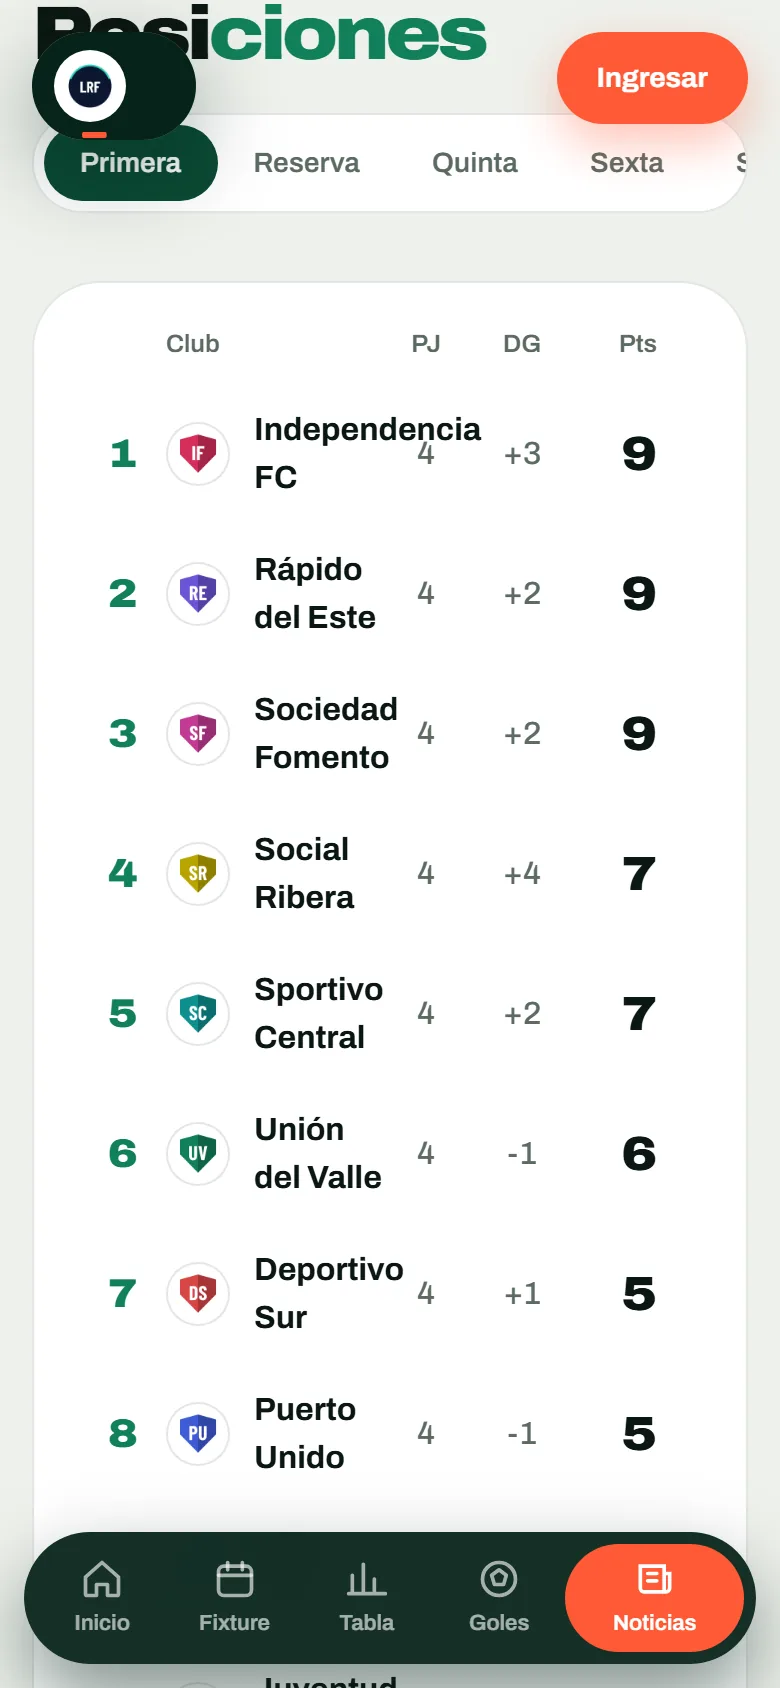
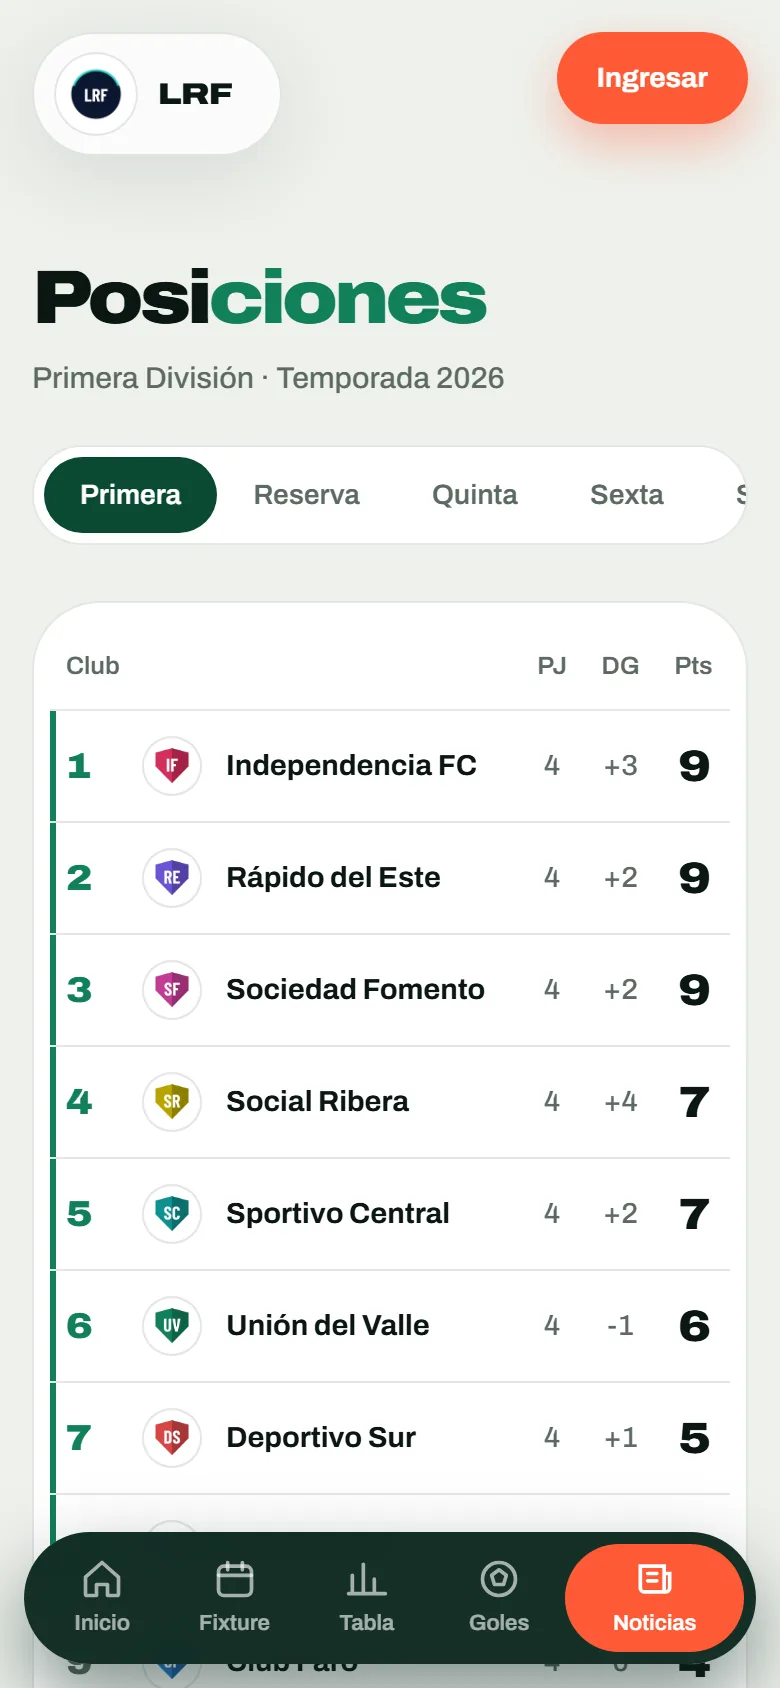
Corrijo error visual dentro del mobile en vista del usuario y agrego bien las pantallas del aministrador y periodista

diff --git a/landing/index.html b/landing/index.html
@@ -186,14 +186,14 @@
       </div>
       <div class="perfiles-der" aria-hidden="true">
         <div class="escena on" data-escena="hincha">
-          <div class="celu celu-a"><div class="pantalla-celu"><img src="assets/img/cancha-m-tabla.webp" alt="" loading="lazy" width="780" height="1688"></div></div>
-          <div class="celu celu-b"><div class="pantalla-celu"><img src="assets/img/reflectores-m-fecha.webp" alt="" loading="lazy" width="780" height="1688"></div></div>
+          <div class="celu celu-a"><div class="pantalla-celu"><img src="assets/img/cancha-m-tabla.webp?v=2" alt="" loading="lazy" width="780" height="1688"></div></div>
+          <div class="celu celu-b"><div class="pantalla-celu"><img src="assets/img/nocturno-m-fixture.webp?v=2" alt="" loading="lazy" width="780" height="1688"></div></div>
         </div>
         <div class="escena" data-escena="periodista">
-          <div class="navegador"><div class="navegador-barra"><i></i><i></i><i></i><span>tuliga.eltablon/panel_periodista</span></div><img src="assets/img/periodista-noticia.webp" alt="" loading="lazy" width="1440" height="900"></div>
+          <div class="navegador"><div class="navegador-barra"><i></i><i></i><i></i><span>tuliga.eltablon/panel_periodista</span></div><img src="assets/img/periodista-noticia.webp?v=2" alt="" loading="lazy" width="1440" height="900"></div>
         </div>
         <div class="escena" data-escena="admin">
-          <div class="navegador"><div class="navegador-barra"><i></i><i></i><i></i><span>tuliga.eltablon/adminview</span></div><img src="assets/img/admin-panel.webp" alt="" loading="lazy" width="1440" height="900"></div>
+          <div class="navegador"><div class="navegador-barra"><i></i><i></i><i></i><span>tuliga.eltablon/adminview</span></div><img src="assets/img/admin-panel.webp?v=2" alt="" loading="lazy" width="1440" height="900"></div>
         </div>
       </div>
     </div>

diff --git a/landing/css/landing.css b/landing/css/landing.css
@@ -168,8 +168,8 @@ ul,ol{list-style:none}
 .escena .navegador img{width:100%;aspect-ratio:16/10;object-fit:cover;object-position:top}
 .escena{position:absolute;inset:0;opacity:0;transform:translateY(24px);transition:opacity .5s var(--ease),transform .6s var(--ease);pointer-events:none;display:grid;align-items:center}
 .escena.on{opacity:1;transform:none}
-.escena .celu{position:absolute;bottom:auto;right:auto;width:min(31%,178px)}
-.celu-a{left:14%;top:0}.celu-b{right:14%;top:12%}
+.escena .celu{position:absolute;bottom:auto;right:auto;width:min(34%,196px)}
+.celu-a{left:10%;top:0}.celu-b{right:10%;top:10%}
 @media(max-width:900px){
   .perfiles-grid{grid-template-columns:minmax(0,1fr)}
   .perfiles-der{height:auto}

diff --git a/landing/herramientas/capturar_celulares.py b/landing/herramientas/capturar_celulares.py
@@ -1,0 +1,69 @@
+"""Capturas de celular (390x844, x2) de páginas internas de la demo, para "Tres maneras de usar tu liga".
+
+Uso, desde la raíz del proyecto:
+
+    venv\Scripts\python.exe landing\herramientas\capturar_celulares.py
+
+Crea en landing/assets/img/ <diseno>-m-<pagina>.webp. Misma mecánica que capturar_diseno.py
+(SQLite temporal, demo en un puerto local, Chrome headless).
+"""
+import os
+import shutil
+import subprocess
+import sys
+import tempfile
+import time
+import urllib.request
+from pathlib import Path
+
+sys.path.insert(0, str(Path(__file__).resolve().parent))
+from capturar_diseno import BASE, PUERTO, RAIZ, SALIDA, buscar_chrome, capturar  # noqa: E402
+
+# (diseno, pagina, ruta)
+PAGINAS = [
+    ("cancha", "tabla", "/tabla_posiciones/Primera"),
+    ("cancha", "fixture", "/fixture/mayores/Primera"),
+    ("nocturno", "tabla", "/tabla_posiciones/Primera"),
+    ("nocturno", "fixture", "/fixture/mayores/Primera"),
+    ("tribuna", "tabla", "/tabla_posiciones/Primera"),
+    ("tribuna", "fixture", "/fixture/mayores/Primera"),
+    ("reflectores", "tabla", "/tabla_posiciones/Primera"),
+    ("reflectores", "fixture", "/fixture/mayores/Primera"),
+]
+
+
+def main():
+    chrome = buscar_chrome()
+    trabajo = Path(tempfile.mkdtemp(prefix="eltablon_capturas_"))
+    env = dict(
+        os.environ, LIGA="demo", DEMO_TEMAS="1", PYTHONIOENCODING="utf-8", PYTHONPATH=str(RAIZ),
+        DATABASE_URL=f"sqlite:///{trabajo.as_posix()}/demo.db", DEMO_DATABASE_URL=f"sqlite:///{trabajo.as_posix()}/demo_sesion.db",
+    )
+    env.pop("TEMA", None)
+    servidor = None
+    try:
+        subprocess.run([sys.executable, "-m", "flask", "--app", "app", "seed-liga-demo", "--yes"], cwd=RAIZ, env=env, check=True)
+        servidor = subprocess.Popen(
+            [sys.executable, "-c", f"from app import app; app.run(port={PUERTO}, debug=False)"],
+            cwd=RAIZ, env=env, stdout=subprocess.DEVNULL, stderr=subprocess.DEVNULL,
+        )
+        for _ in range(40):
+            try:
+                urllib.request.urlopen(f"{BASE}/", timeout=2)
+                break
+            except Exception:
+                time.sleep(0.5)
+        else:
+            sys.exit("La demo no respondió a tiempo.")
+        for diseno, pagina, ruta in PAGINAS:
+            imagen = capturar(chrome, str(trabajo / "celu.png"), f"{ruta}?tema={diseno}&embed=1", 390, 844, escala=2, en_marco=True)
+            imagen.save(SALIDA / f"{diseno}-m-{pagina}.webp", quality=82, method=6)
+            print(f"  {diseno}-m-{pagina}.webp")
+    finally:
+        if servidor:
+            servidor.terminate()
+        shutil.rmtree(trabajo, ignore_errors=True)
+
+
+if __name__ == "__main__":
+    main()
